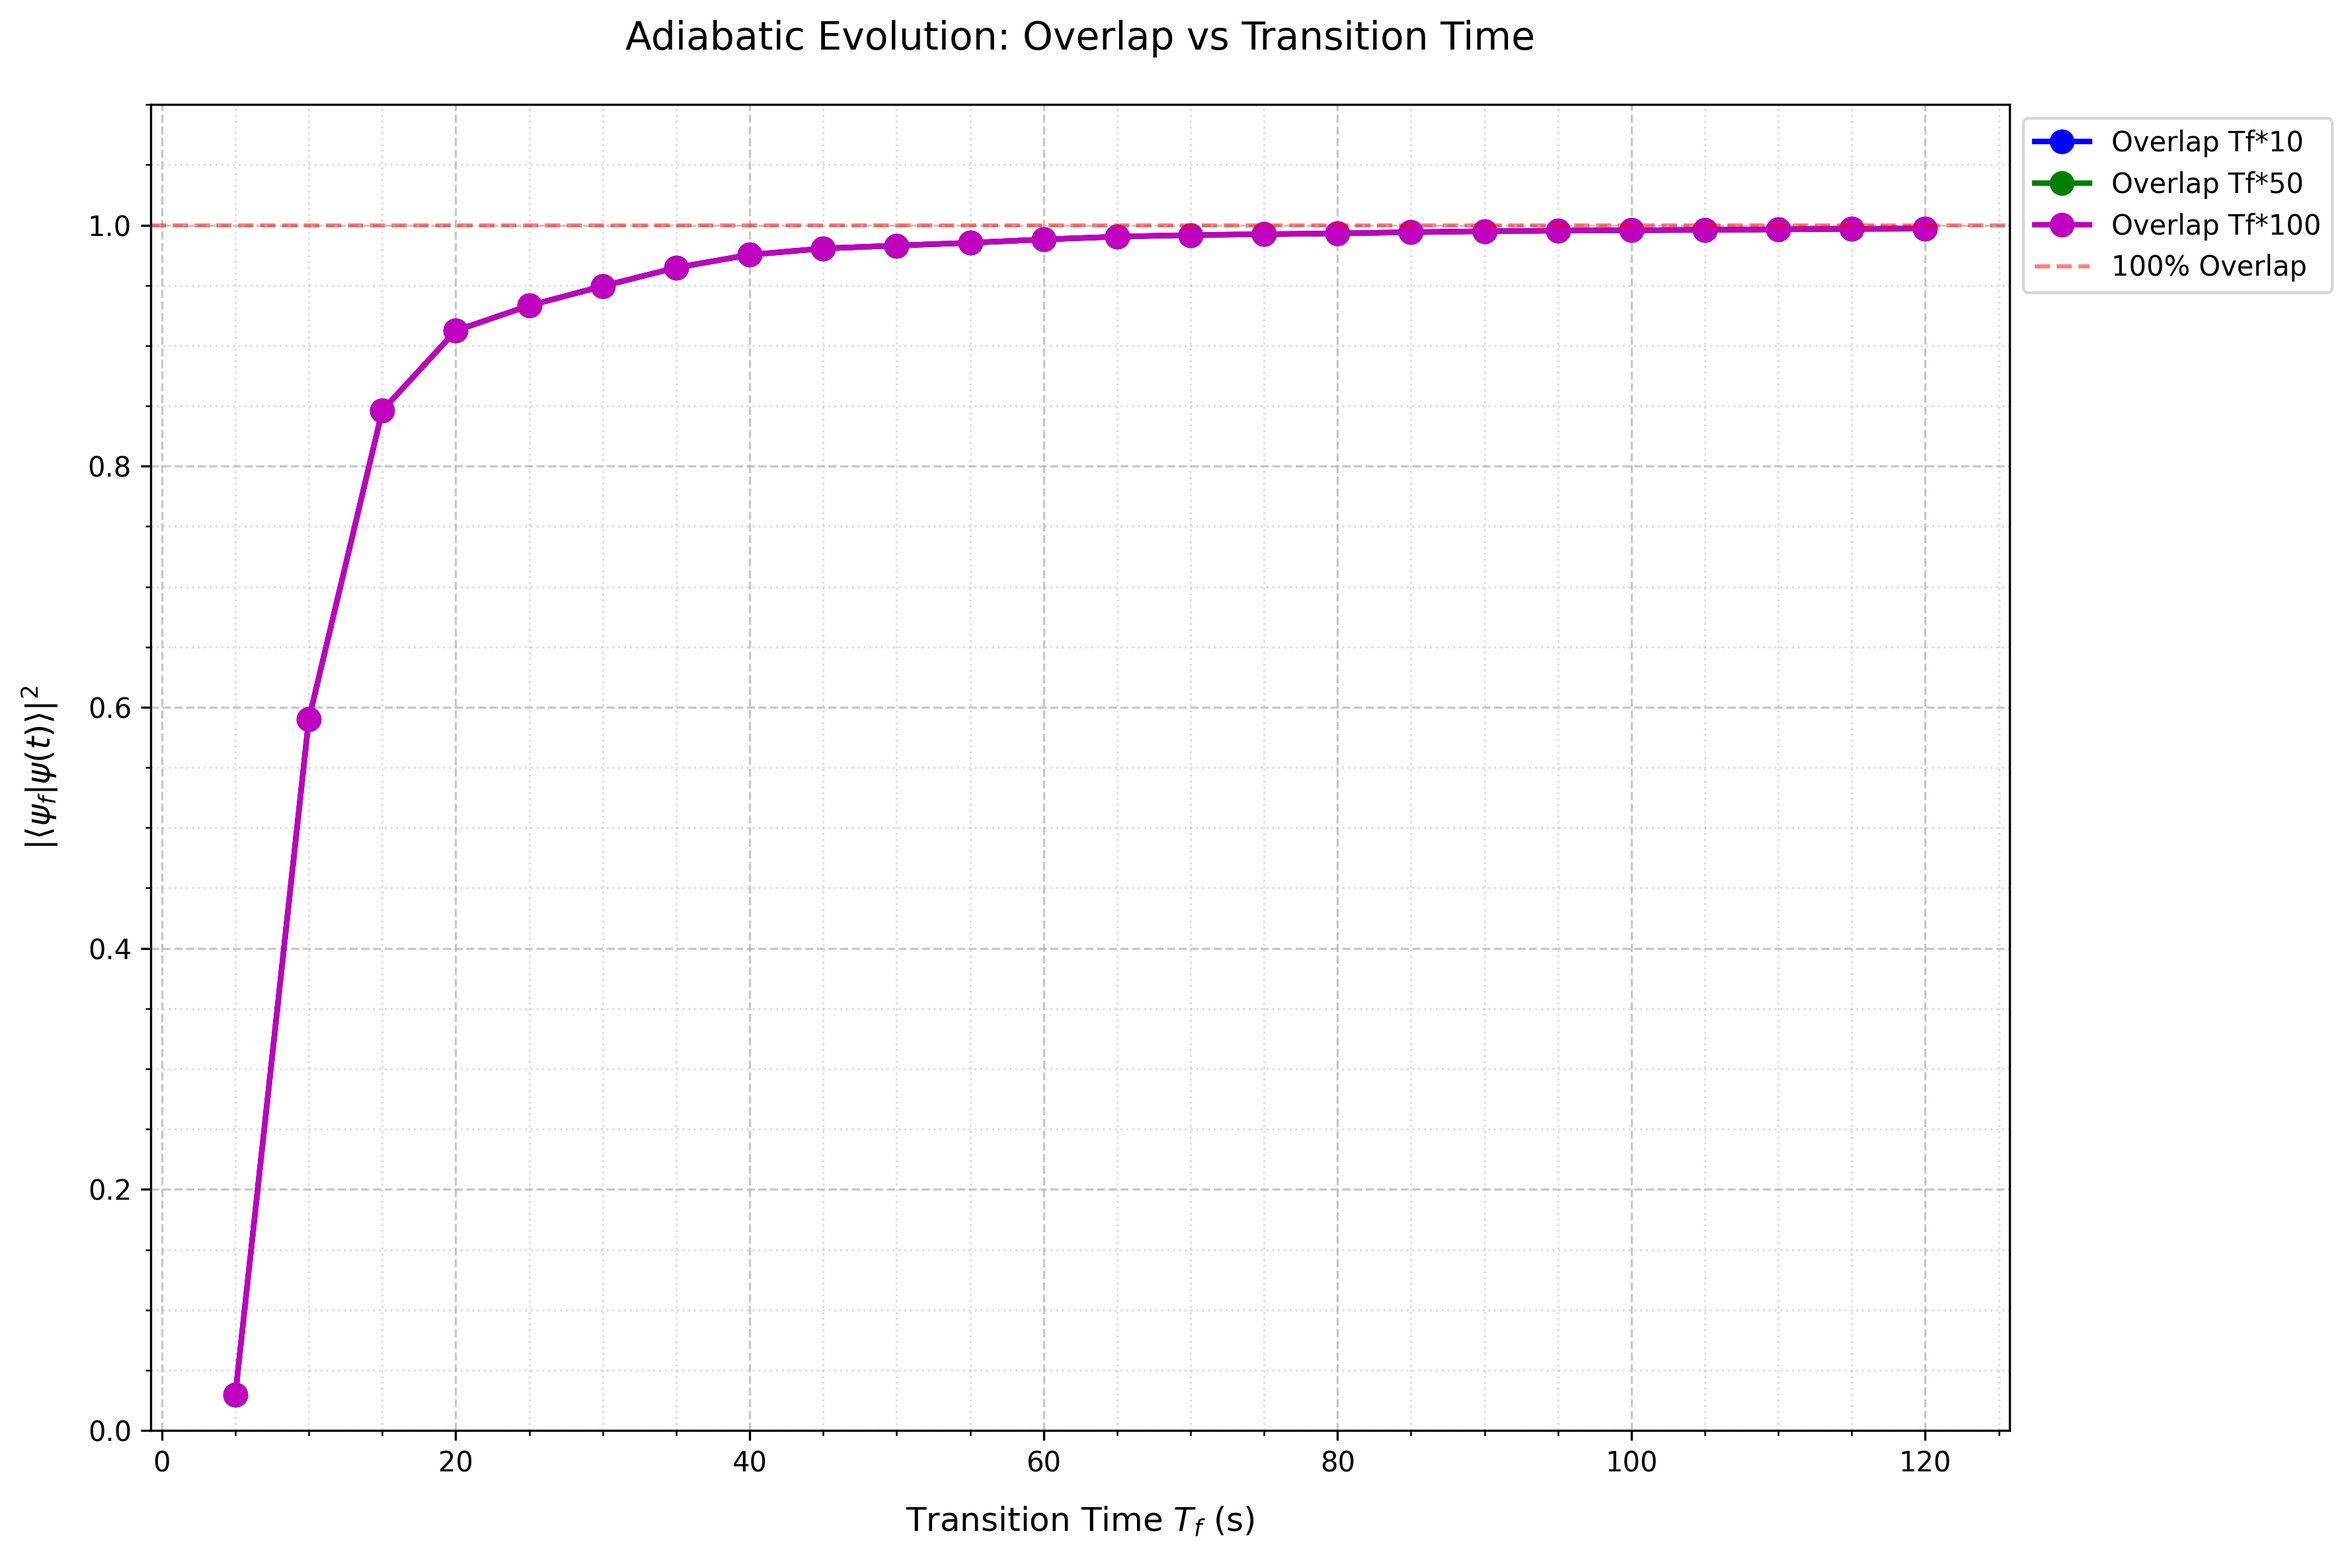
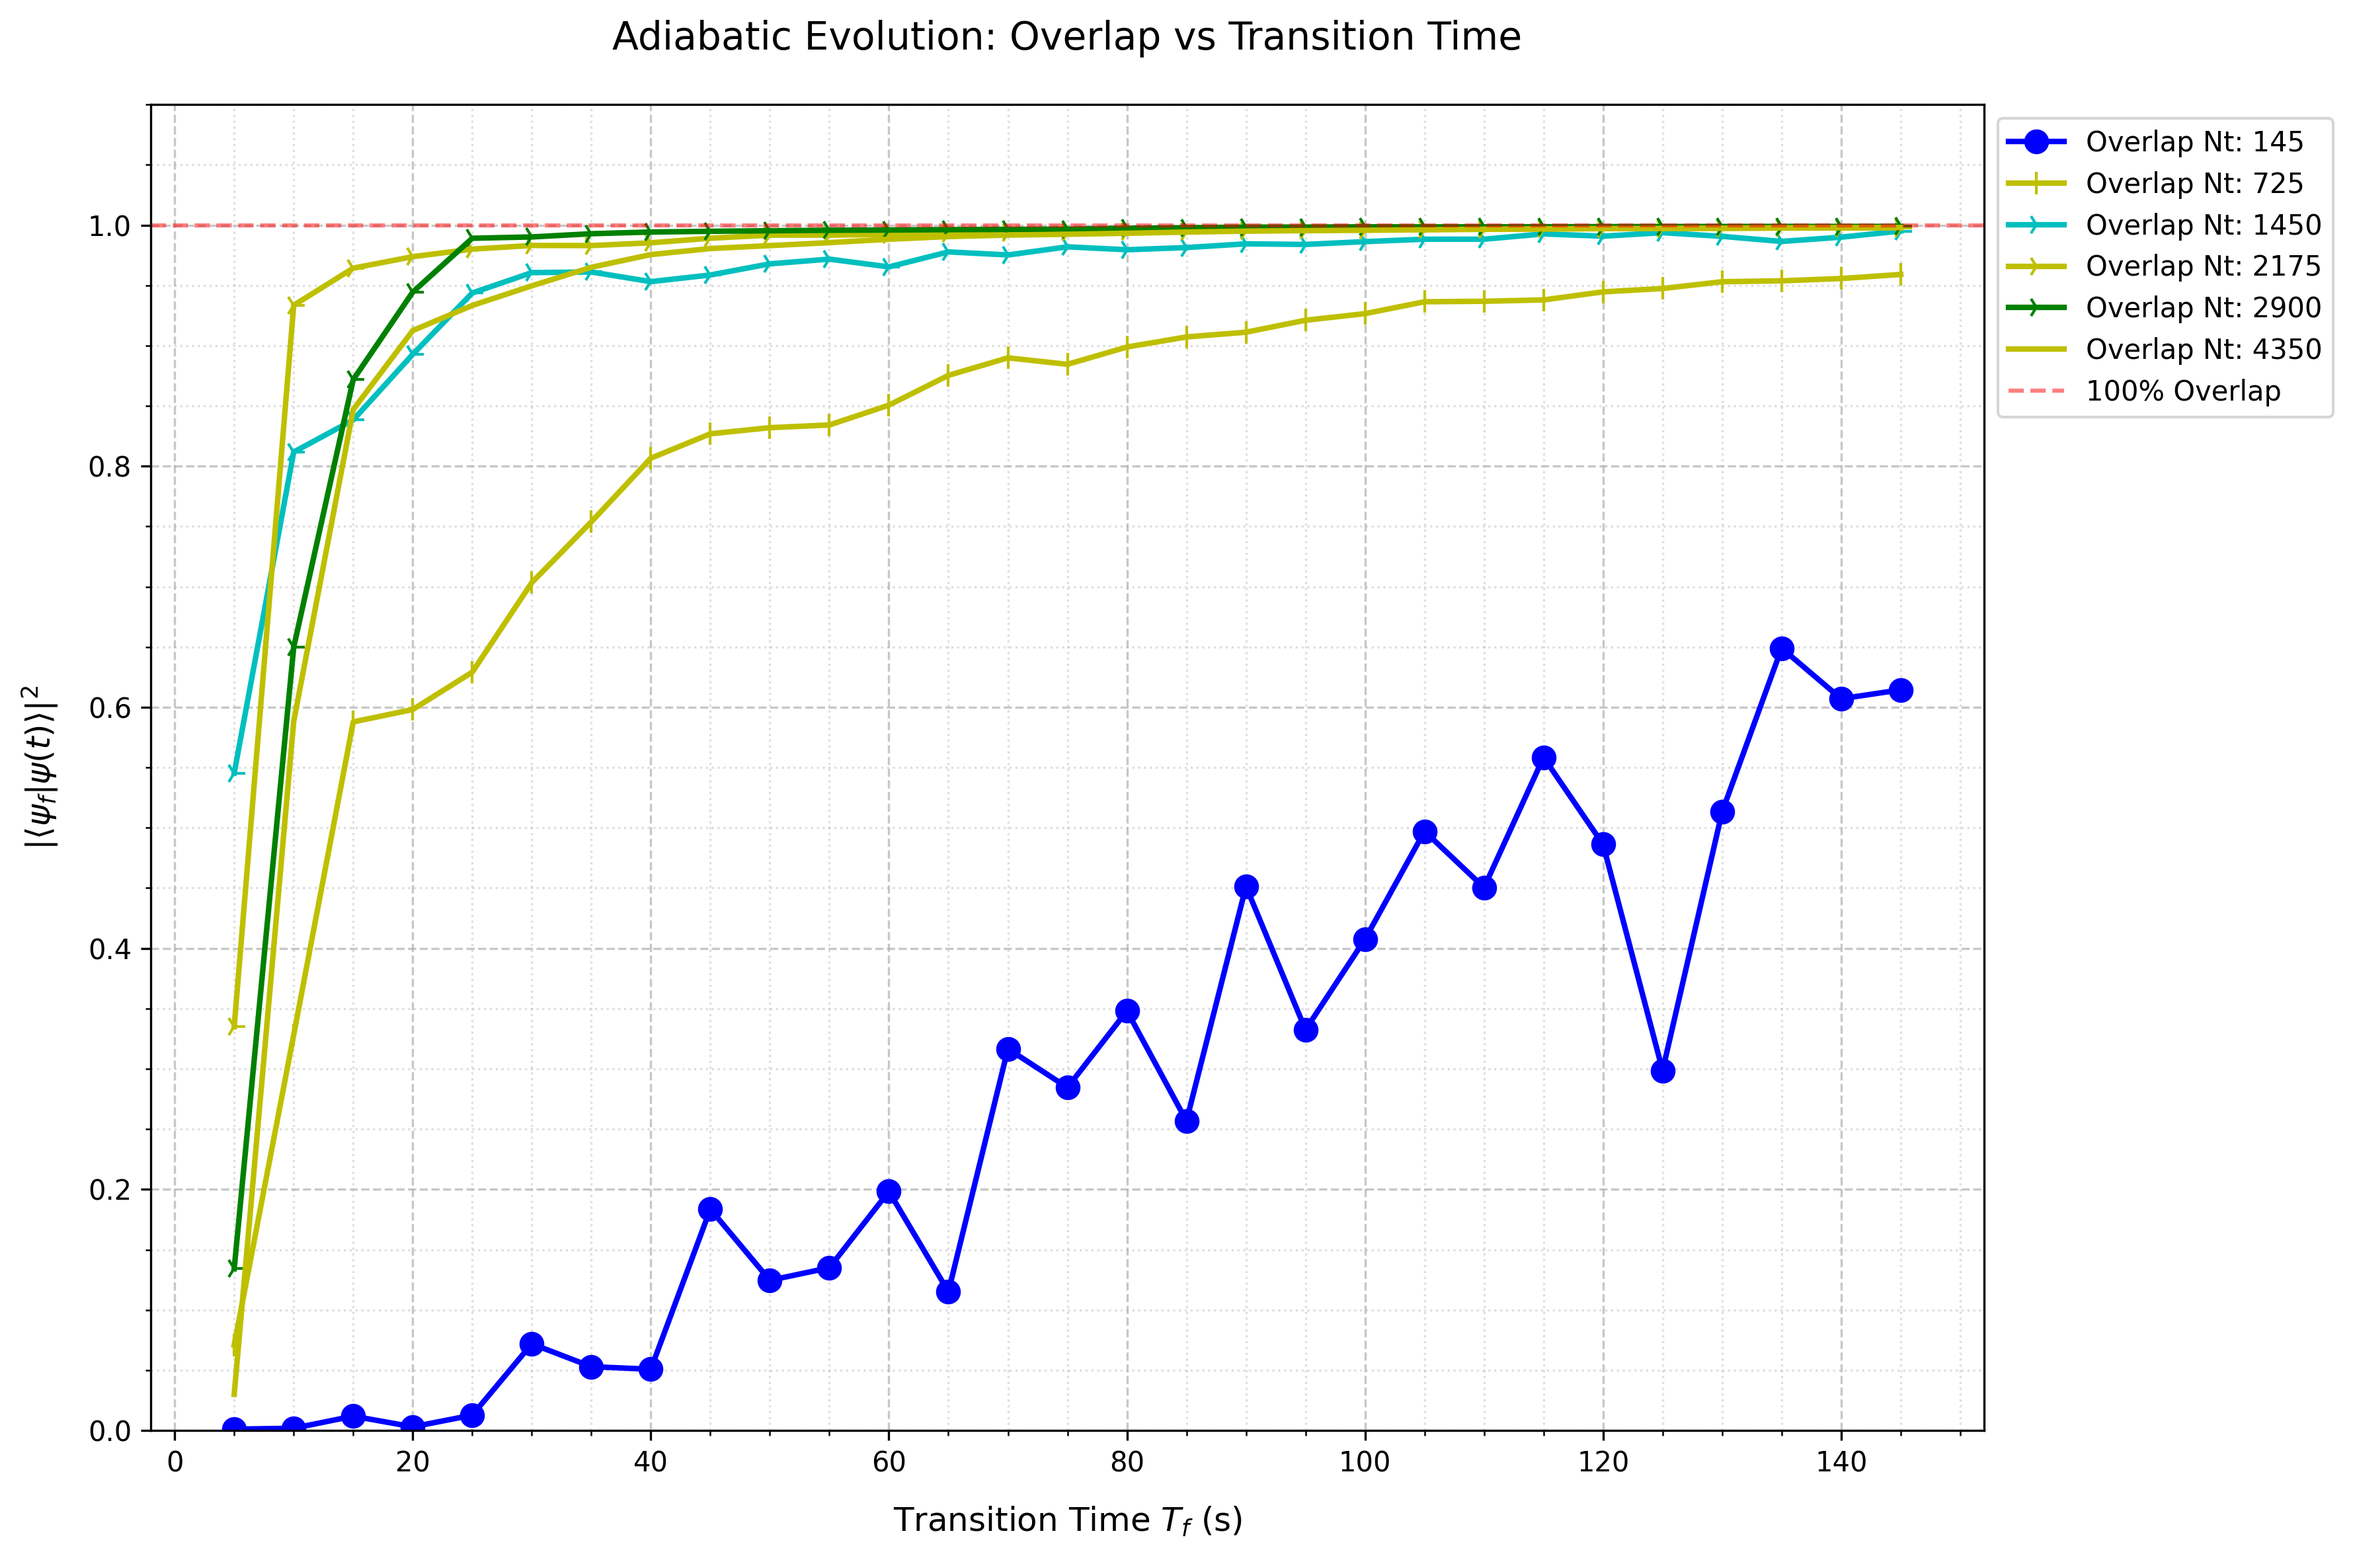
update from lastweek

diff --git a/3_22/3172025_groundstate_pcolorgraph.py b/3_22/3172025_groundstate_pcolorgraph.py
@@ -119,11 +119,19 @@ class SimulationConfig:
         self.dxsq = self.dx**2
 
         #Real time parameters
-        self.Tf = np.arange(5, 125, 5)
-        self.Nt = [self.Tf*10, self.Tf*50, self.Tf*100]
-        self.real_dt = [[self.Tf[i]/(self.Nt[0][i]-1) for i in range(len(self.Tf))], [self.Tf[i]/(self.Nt[1][i]-1) for i in range(len(self.Tf))], [self.Tf[i]/(self.Nt[2][i]-1) for i in range(len(self.Tf))]]
+        self.Tf = np.arange(5, 150, 5)
+        self.Nt = [self.Tf, self.Tf*5, self.Tf*10, self.Tf*15, self.Tf*20, self.Tf*30]
+
+        self.real_dt = []
+        for l in range(len(self.Nt)):
+            self.real_dt.append([self.Tf[i]/(self.Nt[l][i]-1) for i in range(len(self.Tf))])
+        self.Tvector_real = []
+        for l in range(len(self.Nt)):
+            self.Tvector_real.append([np.linspace(0, self.Tf[i], self.Nt[l][i]) for i in range(len(self.Tf))])
+
+        #self.real_dt = [[self.Tf[i]/(self.Nt[0][i]-1) for i in range(len(self.Tf))], [self.Tf[i]/(self.Nt[1][i]-1) for i in range(len(self.Tf))], [self.Tf[i]/(self.Nt[2][i]-1) for i in range(len(self.Tf))]]
         #self.real_dt = [self.Tf[i]/(self.Nt[i]-1) for i in range(len(self.Tf))]
-        self.Tvector_real = [[np.linspace(0, self.Tf[i], self.Nt[0][i]) for i in range(len(self.Tf))], [np.linspace(0, self.Tf[i], self.Nt[1][i]) for i in range(len(self.Tf))], [np.linspace(0, self.Tf[i], self.Nt[2][i]) for i in range(len(self.Tf))]]
+        #self.Tvector_real = [[np.linspace(0, self.Tf[i], self.Nt[0][i]) for i in range(len(self.Tf))], [np.linspace(0, self.Tf[i], self.Nt[1][i]) for i in range(len(self.Tf))], [np.linspace(0, self.Tf[i], self.Nt[2][i]) for i in range(len(self.Tf))]]
         #self.Tvector_real = [np.linspace(0, self.Tf[i], self.Nt[i]) for i in range(len(self.Tf))]
 
 # Initialize configuration
@@ -389,7 +397,7 @@ print("Step 3 done. Starting real-time evolution (step 2)...")
 print("-" * 50)
 
 # Initialize overlap array and pre-allocate arrays for evolution
-overlap_touple = [[], [], []]
+overlap_touple = np.zeros((len(config.Nt), len(config.Tf)))
 overlap_array = np.zeros(len(config.Tf))
 Psi_real = np.zeros((config.N, config.N), dtype=np.complex128)
 V_real = np.zeros((config.N, config.N))
@@ -402,9 +410,10 @@ V_diff = V_final - V_initial
 psi_step3_conj = np.conj(state.psi_step3)
 
 # Set up plot update interval
-plot_update_interval = 10  # Update plot every 10 steps
+#plot_update_interval = 10  # Update plot every 10 steps
+HighestP = 0.997
+HighValues = []
 for k in range(len(config.Nt)):
-
     for t_step in range(len(config.Tf)):
         Tvector_real = config.Tvector_real[k][t_step]
         Nt = config.Nt[k][t_step]
@@ -447,9 +456,6 @@ for k in range(len(config.Nt)):
             #    continue
             #state.psi_real = Psi_real /norm
 
-            # Calculate overlap using pre-calculated conjugate and vectorized operations
-            Overlap = np.abs(np.sum(psi_step3_conj * state.psi_real) * config.dxsq)**2
-
             """
             # Update the plot at intervals
             if t_idx % plot_update_interval == 0:
@@ -466,16 +472,24 @@ for k in range(len(config.Nt)):
             
             # Print progress at 25% intervals
             if t_idx % (Nt//4) == 0:
-                elapsed_time = time.process_time() - t
-                print(f'Step: {t*100/Tf:.0f}% | Overlap: {Overlap:.10f} | Time: {elapsed_time:.2f}s')
+                #elapsed_time = time.process_time() - t
+                #print(f'Step: {t*100/Tf:.0f}% | Overlap: {Overlap:.10f} | Time: {elapsed_time:.2f}s')
+                print(f'Step: {t*100/Tf:.0f}%')
         
+        # Calculate overlap using pre-calculated conjugate and vectorized operations
+        Overlap = np.abs(np.sum(psi_step3_conj * state.psi_real) * config.dxsq)**2
         overlap_array[t_step] = Overlap
+        if Overlap > HighestP:
+            HighestP = Overlap
+            finalText = f'High overlap: {HighestP}, with Tf={Tf}s, Nt/Tf={Nt/Tf}, dt={real_dt:.6f}'
+            HighValues.append([finalText])
+            
 
         #plt.close()  # Close the interactive plot for this Tf
         
         elapsed_time = time.process_time() - t
         print(f'Final Overlap: {Overlap:.10f} | Time: {elapsed_time:.2f}s')
-    overlap_touple[k] = overlap_array
+    overlap_touple[k, :] = overlap_array
 
 # Final diagnostics
 elapsed_time = time.process_time() - t
@@ -486,13 +500,18 @@ print(f'Time elapsed: {elapsed_time:.2f} seconds')
 # Final verification with comprehensive metrics
 t_end = time.process_time()
 
-print(config.Tf)
-print(overlap_touple)
+for i in range(len(HighValues)):
+    print(HighValues[i])
 
 plt.figure(figsize=(12, 8))
-plt.plot(config.Tf, overlap_touple[0], 'b-o', linewidth=2, markersize=8, label='Overlap Tf*10')
-plt.plot(config.Tf, overlap_touple[1], 'g-o', linewidth=2, markersize=8, label='Overlap Tf*50')
-plt.plot(config.Tf, overlap_touple[2], 'm-o', linewidth=2, markersize=8, label='Overlap Tf*100')
+plot_colors = ['b', 'm', 'g', 'y', 'c']
+plot_markers = [',', '>', '4', 'h', '|', 'o']
+for i in range(len(overlap_touple)):
+    plot_line = f'{np.random.choice(plot_colors)}-{np.random.choice(plot_markers)}'
+    plt.plot(config.Tf, overlap_touple[i], f'{plot_line}', linewidth=2, markersize=8, label=f'Overlap Nt: {config.Nt[i][-1]}')
+#plt.plot(config.Tf, overlap_touple[0], 'b-*', linewidth=2, markersize=8, label='Overlap Nt = Tf')
+#plt.plot(config.Tf, overlap_touple[1], 'g-D', linewidth=2, markersize=8, label='Overlap Nt = Tf*5')
+#plt.plot(config.Tf, overlap_touple[2], 'm-.', linewidth=2, markersize=8, label='Overlap Nt = Tf*10')
 plt.grid(True, linestyle='--', alpha=0.7)
 plt.xlabel(r'Transition Time $T_f$ (s)', fontsize=12, labelpad=10)
 plt.ylabel(r'$|\langle \psi_f | \psi(t) \rangle|^2$', fontsize=12, labelpad=10)
@@ -556,93 +575,25 @@ Step: 4750/5000 | E = 1.0000000281 | Time: 121.78s
 Step 3 done. Starting real-time evolution (step 2)...
 --------------------------------------------------
 
-Starting evolution with Tf=10s, Nt=1000, dt=0.010010
-Step: 0% | Overlap: 0.0000000414 | Time: 125.67s
-Step: 25% | Overlap: 0.0000000417 | Time: 126.29s
-Step: 50% | Overlap: 0.0000000485 | Time: 126.90s
-Step: 75% | Overlap: 0.0000000635 | Time: 127.52s
-Final Overlap: 0.0000000659 | Time: 128.14s
-
-Starting evolution with Tf=25s, Nt=2500, dt=0.010004
-Step: 0% | Overlap: 0.0000000414 | Time: 138.16s
-Step: 25% | Overlap: 0.0000000430 | Time: 139.64s
-Step: 50% | Overlap: 0.0000001071 | Time: 141.20s
-Step: 75% | Overlap: 0.0000005141 | Time: 142.71s
-Final Overlap: 0.0000006319 | Time: 144.19s
-
-Starting evolution with Tf=50s, Nt=5000, dt=0.010002
-Step: 0% | Overlap: 0.0000000414 | Time: 169.20s
-Step: 25% | Overlap: 0.0000000478 | Time: 172.15s
-Step: 50% | Overlap: 0.0000012894 | Time: 175.07s
-Step: 75% | Overlap: 0.0001568647 | Time: 178.02s
-Final Overlap: 0.0002502454 | Time: 181.00s
-
-Starting evolution with Tf=75s, Nt=7500, dt=0.010001
-Step: 0% | Overlap: 0.0000000414 | Time: 231.00s
-Step: 25% | Overlap: 0.0000000564 | Time: 235.48s
-Step: 50% | Overlap: 0.0000299334 | Time: 239.95s
-Step: 75% | Overlap: 0.0311714560 | Time: 244.41s
-Final Overlap: 0.0441826102 | Time: 248.84s
-
-Starting evolution with Tf=90s, Nt=9000, dt=0.010001
-Step: 0% | Overlap: 0.0000000414 | Time: 323.86s
-Step: 25% | Overlap: 0.0000000639 | Time: 329.40s
-Step: 50% | Overlap: 0.0001796980 | Time: 334.67s
-Step: 75% | Overlap: 0.2253244513 | Time: 339.98s
-Final Overlap: 0.2672160013 | Time: 345.16s
-
-Starting evolution with Tf=100s, Nt=10000, dt=0.010001
-Step: 0% | Overlap: 0.0000000414 | Time: 435.17s
-Step: 25% | Overlap: 0.0000000699 | Time: 441.00s
-Step: 50% | Overlap: 0.0005144605 | Time: 446.90s
-Step: 75% | Overlap: 0.4939174180 | Time: 452.70s
-Final Overlap: 0.5304749666 | Time: 458.55s
-
-Starting evolution with Tf=110s, Nt=11000, dt=0.010001
-Step: 0% | Overlap: 0.0000000414 | Time: 558.56s
-Step: 25% | Overlap: 0.0000000768 | Time: 565.09s
-Step: 50% | Overlap: 0.0012672498 | Time: 571.57s
-Step: 75% | Overlap: 0.7670510547 | Time: 578.07s
-Final Overlap: 0.7762307221 | Time: 584.55s
-
-Starting evolution with Tf=125s, Nt=12500, dt=0.010001
-Step: 0% | Overlap: 0.0000000414 | Time: 694.55s
-Step: 25% | Overlap: 0.0000000889 | Time: 701.92s
-Step: 50% | Overlap: 0.0035907889 | Time: 709.28s
-Step: 75% | Overlap: 0.9671806747 | Time: 716.66s
-Final Overlap: 0.9669467784 | Time: 723.89s
-
-Starting evolution with Tf=150s, Nt=15000, dt=0.010001
-Step: 0% | Overlap: 0.0000000414 | Time: 848.91s
-Step: 25% | Overlap: 0.0000001141 | Time: 857.64s
-Step: 50% | Overlap: 0.0093365853 | Time: 866.53s
-Step: 75% | Overlap: 0.9285384728 | Time: 875.24s
-Final Overlap: 0.9960163921 | Time: 884.09s
-
-Starting evolution with Tf=200s, Nt=20000, dt=0.010001
-Step: 0% | Overlap: 0.0000000414 | Time: 1034.09s
-Step: 25% | Overlap: 0.0000001810 | Time: 1046.04s
-Step: 50% | Overlap: 0.0119960628 | Time: 1057.85s
-Step: 75% | Overlap: 0.9344866551 | Time: 1069.66s
-Final Overlap: 0.9997036205 | Time: 1081.28s
-
-Final state verification:
-Checking final state properties...
-Time elapsed: 1081.28 seconds
-
-Performance Metrics:
---------------------------------------------------
-Total simulation time: 1081.28 seconds
-
-Evolution Statistics:
-Number of time steps: 5000
-Number of evolution runs: 10
-Evolution times: [10, 25, 50, 75, 90, 100, 110, 125, 150, 200]
-
-Memory Usage:
-Grid size per array: 0.25 MB
-Total grid memory: 0.75 MB (3 arrays)
---------------------------------------------------
+Time elapsed: 2254.67 seconds
+['High overlap: 0.9970813174889056, with Tf=120s, Nt/Tf=15.0, dt=0.066704']
+['High overlap: 0.9971747331231592, with Tf=125s, Nt/Tf=15.0, dt=0.066702']
+['High overlap: 0.9973108274189879, with Tf=130s, Nt/Tf=15.0, dt=0.066701']
+['High overlap: 0.9975215598141406, with Tf=135s, Nt/Tf=15.0, dt=0.066700']
+['High overlap: 0.9975215598141406, with Tf=135s, Nt/Tf=15.0, dt=0.066700']
+['High overlap: 0.997587253796677, with Tf=140s, Nt/Tf=15.0, dt=0.066698']
+['High overlap: 0.9977213780537908, with Tf=145s, Nt/Tf=15.0, dt=0.066697']
+['High overlap: 0.9978502814765545, with Tf=85s, Nt/Tf=20.0, dt=0.050029']
+['High overlap: 0.9982901609276473, with Tf=90s, Nt/Tf=20.0, dt=0.050028']
+['High overlap: 0.9983771375379519, with Tf=95s, Nt/Tf=20.0, dt=0.050026']
+['High overlap: 0.9985759264422064, with Tf=100s, Nt/Tf=20.0, dt=0.050025']
+['High overlap: 0.9985899739859613, with Tf=110s, Nt/Tf=20.0, dt=0.050023']
+['High overlap: 0.998654577154167, with Tf=115s, Nt/Tf=20.0, dt=0.050022']
+['High overlap: 0.9987325201919571, with Tf=120s, Nt/Tf=20.0, dt=0.050021']
+['High overlap: 0.9988079546848044, with Tf=125s, Nt/Tf=20.0, dt=0.050020']
+['High overlap: 0.9988691426241746, with Tf=130s, Nt/Tf=20.0, dt=0.050019']
+['High overlap: 0.9989232836518303, with Tf=135s, Nt/Tf=20.0, dt=0.050019']
+['High overlap: 0.9989505243174874, with Tf=145s, Nt/Tf=20.0, dt=0.050017']
 """
 
 
